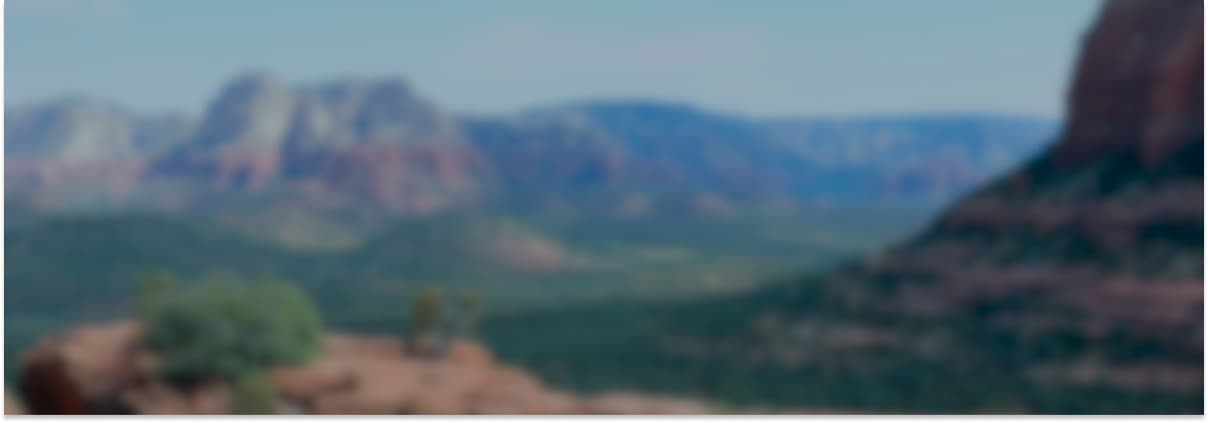
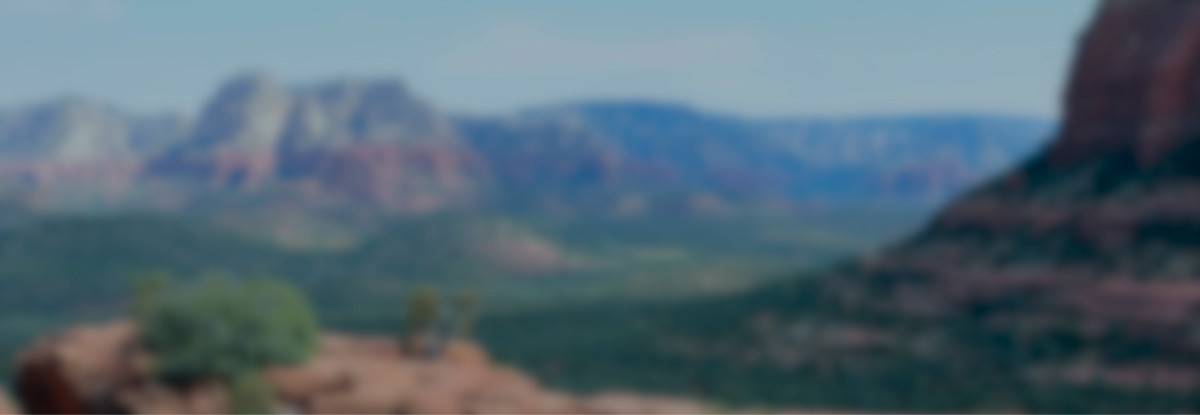
изменила изображения

diff --git a/styles/styles.css b/styles/styles.css
@@ -49,6 +49,8 @@ body {
     background-image: url("../images/mountains-background.jpg");
     background-size: 100% auto;
     background-repeat: no-repeat;
+    width: 1200px;
+    height: 485px;
 }
 
 /*Для "небольношй городок, заслуживающий большего" и "приезжайте отдохнуть"*/
@@ -169,4 +171,16 @@ body {
     background-color: #fff;
     font-size: 22px;
     line-height: 26px;
+}
+
+/* подписка */
+
+.subscribe {
+    color: #fff;
+    background-color: #82B3D3;
+    background-image: url("../images/subscribe-blur.jpg");
+    background-size: 100% auto;
+    background-repeat: no-repeat;
+    width: 1200px;
+    height: 415px;
 }
